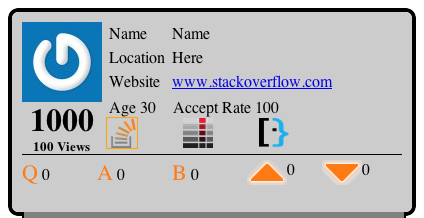
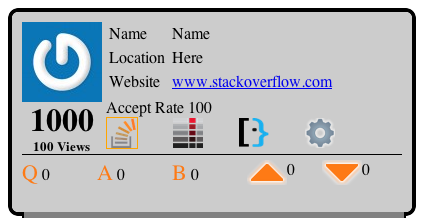
Added support for Stack Apps

Changed region(s): [[0.2453, 0.4679, 0.7972, 0.6881]]

diff --git a/Widget.dcproj/project/widget.wdgt/so.js b/Widget.dcproj/project/widget.wdgt/so.js
@@ -15,6 +15,7 @@ var bottomPanelShownBy;
 this.SuperUserLocation = "superuser";
 this.StackOverflowLocation = "stackoverflow";
 this.ServerFaultLocation = "serverfault";
+this.StackAppsLocation = "stackapps";
 
 var currentSettings;
 
@@ -34,10 +35,12 @@ function initialise() {
 		currentSettings.userNames[this.StackOverflowLocation] = widget.preferenceForKey("soUserName");
 		currentSettings.userNames[this.SuperUserLocation] = widget.preferenceForKey("suUserName");
 		currentSettings.userNames[this.ServerFaultLocation] = widget.preferenceForKey("sfUserName");
+        currentSettings.userNames[this.StackAppsLocation] = widget.preferenceForKey("saUserName");
         
 		currentSettings.userIDs[this.StackOverflowLocation] = widget.preferenceForKey("soUserID");
 		currentSettings.userIDs[this.SuperUserLocation] = widget.preferenceForKey("suUserID");
 		currentSettings.userIDs[this.ServerFaultLocation] = widget.preferenceForKey("sfUserID");
+        currentSettings.userIDs[this.StackAppsLocation] = widget.preferenceForKey("saUserID");
         currentSettings.apiKey = widget.preferenceForKey("apiKey");
 	}
 	$('#outset').slideUp();
@@ -110,9 +113,11 @@ function savePrefs() {
 		widget.setPreferenceForKey(currentSettings.userNames[this.StackOverflowLocation],"soUserName");
 		widget.setPreferenceForKey(currentSettings.userNames[this.SuperUserLocation],"suUserName");
 		widget.setPreferenceForKey(currentSettings.userNames[this.ServerFaultLocation],"sfUserName");
+        widget.setPreferenceForKey(currentSettings.userNames[this.StackAppsLocation],"saUserName");
         widget.setPreferenceForKey(currentSettings.userIDs[this.StackOverflowLocation],"soUserID");
         widget.setPreferenceForKey(currentSettings.userIDs[this.SuperUserLocation],"suUserID");
         widget.setPreferenceForKey(currentSettings.userIDs[this.ServerFaultLocation],"sfUserID");
+        widget.setPreferenceForKey(currentSettings.userIDs[this.StackAppsLocation],"saUserID");
 	}
 }
 
@@ -311,6 +316,8 @@ function chooseSite(siteChosen) {
             $("#chooseSF").addClass("selectedOption");
         } else if (siteChosen == this.SuperUserLocation) {
             $("#chooseSU").addClass("selectedOption");
+        } else if (siteChosen == this.StackAppsLocation) {
+            $("#chooseSA").addClass("selectedOption");
         }
         hideBottomPanel();
         refreshDisplay();

diff --git a/Widget.dcproj/project/widget.wdgt/overflow.html b/Widget.dcproj/project/widget.wdgt/overflow.html
@@ -49,6 +49,7 @@
                     <img class="optionImage selectedOption" id="chooseSO" src="stackoverflow/images/logo.png" onclick="chooseSite('stackoverflow');" alt="Stack Overflow Logo">
                     <img class="optionImage" id="chooseSF" src="serverfault/images/logo.png" onclick="chooseSite('serverfault');" alt="Server Fault Logo">
                     <img class="optionImage" id="chooseSU" src="superuser/images/logo.png" onclick="chooseSite('superuser');" alt="Super User Logo">
+                    <img class="optionImage" id="chooseSA" src="stackapps/images/logo.png" onclick="chooseSite('stackapps');" alt="Stack Apps Logo">
                 </div>
             </div>
             <div id="footer">
@@ -74,6 +75,7 @@
             <option value="stackoverflow">Stack Overflow</option>
             <option value="serverfault">Server Fault</option>
             <option value="superuser">Super User</option>
+            <option value="stackapps">Stack Apps</option>
         </select><br>
         <input type="search" id="userName" placeholder="User Name" onsearch="listUsers();">
         <div id="searchButton" apple-part="com.apple.Dashcode.part.glassbutton" class="apple-no-children"></div>

diff --git a/Widget.dcproj/project/widget.wdgt/overflow.css b/Widget.dcproj/project/widget.wdgt/overflow.css
@@ -140,7 +140,7 @@ body {
 #head .optionimage {
     width: 30px;
     height: 30px;
-    margin-right: 40px;
+    margin-right: 30px;
     border-style: solid;
     border-width: 1px;
     border-color: rgb(204, 204, 204);
